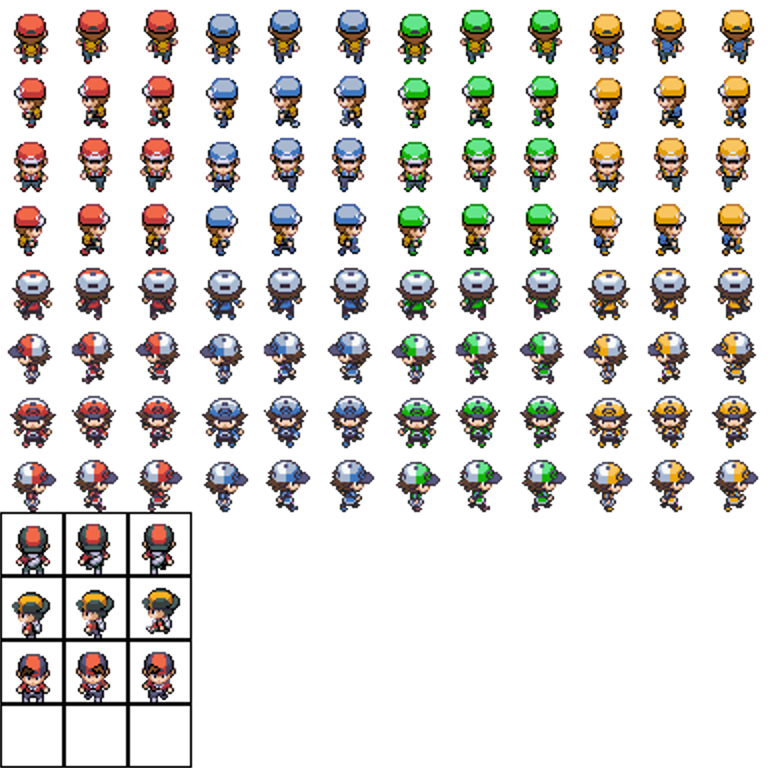
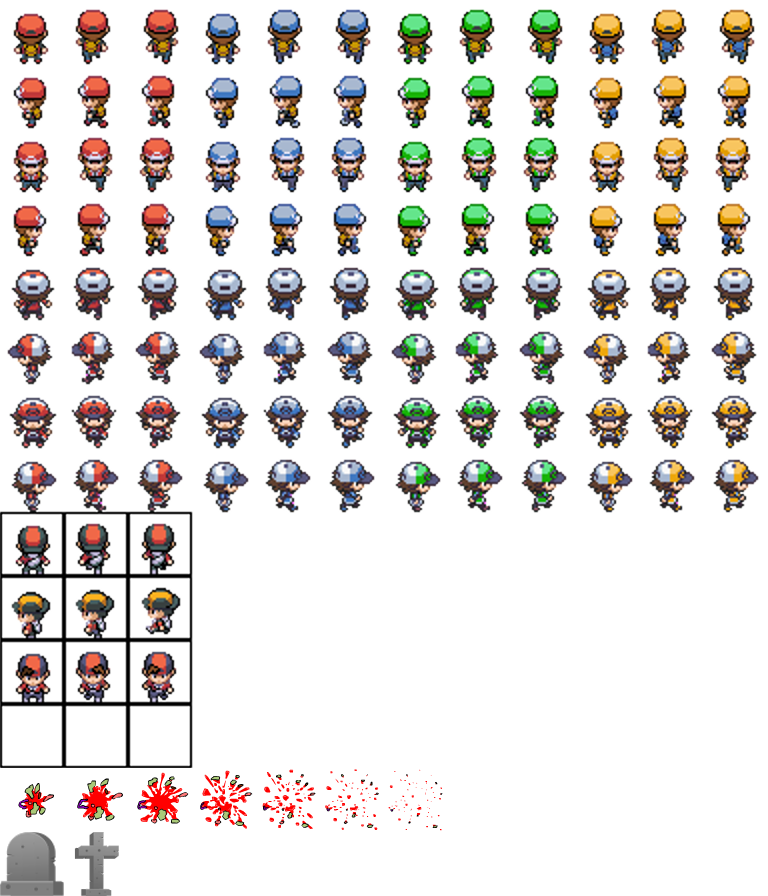
Add new animations

diff --git a/front/public/Game.js b/front/public/Game.js
@@ -159,22 +159,27 @@ socket.on("start", () => {
 });
 
 const createPlayer = data => {
-  return Crafty.e("2D, Canvas, team1, Controls, Collision, SpriteAnimation")
+  return Crafty.e("2D, Canvas, team1, Mouse, SpriteAnimation")
     .attr({
       x: data.pos.x * tileMapSize,
       y: data.pos.y * tileMapSize,
-      w: tileMapSize,
-      h: tileMapSize
     })
     .reel("2", 100, [[0, 3], [1, 3], [2, 3]])
     .reel("4", 100, [[0, 1], [1, 1], [2, 1]])
     .reel("3", 100, [[0, 2], [1, 2], [2, 2]])
     .reel("1", 100, [[0, 0], [1, 0], [2, 0]])
-    .bind("Update", function(data) {
-      this.animate(data.orientation.toString());
+    .reel("dead", 1000, [[0, 12], [1, 12], [2, 12], [3, 12],
+        [4, 12], [5, 12], [6, 12], [1, 13]])
+  .bind("Update", function(data) {
+      this.animate(data.orientation.toString(), 1);
       this.x = data.pos.x * tileMapSize;
       this.y = data.pos.y * tileMapSize;
-    });
+    })
+      .bind("Click", function(data) {
+          displayItem(this.x, this.y);
+          this.animate("dead", 1)
+          this.sprite("tomb")
+      });
 };
 
 const parseClientsData = data => {
@@ -210,20 +215,29 @@ const parseHubData = data => {
       map[i][j].thystame = data.map[i][j].thystame;
       //TODO Count all item not only food
       if (map[i][j].food > 0 && !map[i][j].entity) {
-        map[i][j].entity = Crafty.e(`2D, Canvas, Mouse, item, ClickFocus`)
+        map[i][j].entity = Crafty.e(`2D, Canvas, Mouse, item, ClickFocus, SpriteAnimation`)
           .attr({
             x: i * tileMapSize,
             y: j * tileMapSize
           })
           .bind("Click", function(data) {
-            displayItem(this.x, this.y);
+              this.animate("item_break", 1)
+              displayItem(this.x, this.y);
           })
           .bind("Focus", function() {
             this.sprite("itemHover");
           })
           .bind("Blur", function() {
             this.sprite(`item`);
-          });
+          })
+            .reel("item_break", 1000, [
+                [0, 0], [1, 0], [2, 0], [3, 0], [4, 0], [5, 0], [6, 0], [7, 0],
+                [8, 0], [9, 0], [10, 0], [11, 0], [12, 0], [13, 0], [14, 0], [15, 0],
+                [16, 0], [17, 0], [18, 0], [19, 0], [20, 0], [21, 0], [22, 0], [23, 0],
+                [24, 0], [25, 0], [26, 0], [27, 0], [28, 0], [29, 0], [30, 0], [31, 0],
+                [32, 0], [33, 0], [34, 0], [35, 0], [36, 0], [37, 0], [38, 0], [39, 0],
+                [40, 0], [41, 0], [42, 0], [43, 0], [44, 0], [45, 0], [46, 0], [47, 0], [48, 0]
+            ]);
       } else if (map[i][j].food <= 0 && map[i][j].entity) {
         map[i][j].entity.destroy();
       }
@@ -331,40 +345,44 @@ const startGame = () => {
     window.innerHeight * 0.75,
     document.getElementById("game")
   );
+  initSprites();
   //Add audio for Gameplay
   //Crafty.audio.add("PokemonSounds", "/sounds/Bourvil.mp3");
   //Crafty.audio.play("PokemonSounds", 5, 1);
-
-  //turn the sprite map into usable components
-  Crafty.sprite(64, "/images/Player.png", {
-    team1: [0, 2],
-    team2: [3, 2]
-  });
-  Crafty.sprite(64, "/images/map.png", {
-    ground1: [0, 0],
-    ground2: [1, 0],
-    ground3: [2, 0],
-    ground4: [3, 0],
-    ground5: [4, 0],
-    ground6: [5, 0],
-    ground7: [6, 0],
-    ground8: [7, 0],
-    ground9: [8, 0],
-    wallY: [0, 1],
-    wallX: [1, 1],
-    wall_TL: [2, 1],
-    wall_TR: [3, 1],
-    wall_BR: [4, 1],
-    wall_BL: [5, 1],
-    hover: [6, 1]
-  });
-  Crafty.sprite(64, "/images/Object.png", {
-    item: [6, 20],
-    itemHover: [14, 26]
-  });
-  generateWorld();
+    generateWorld();
 };
 
+const initSprites = () => {
+    //turn the sprite map into usable components
+    Crafty.sprite(64, "/images/Player.png", {
+        team1: [0, 2],
+        team2: [3, 2],
+        blood: [0, 12],
+        tomb: [1, 13]
+    });
+    Crafty.sprite(64, "/images/map.png", {
+        ground1: [0, 0],
+        ground2: [1, 0],
+        ground3: [2, 0],
+        ground4: [3, 0],
+        ground5: [4, 0],
+        ground6: [5, 0],
+        ground7: [6, 0],
+        ground8: [7, 0],
+        ground9: [8, 0],
+        wallY: [0, 1],
+        wallX: [1, 1],
+        wall_TL: [2, 1],
+        wall_TR: [3, 1],
+        wall_BR: [4, 1],
+        wall_BL: [5, 1],
+        hover: [6, 1]
+    });
+    Crafty.sprite(64, "/images/item.png", {
+        item: [0, 0],
+        itemHover: [0, 1]
+    });
+}
 // Can zoom or dezoom with Up and Down, and move camera with arrow
 Crafty.bind('KeyDown', function(e) {
     if (e.key === Crafty.keys.LEFT_ARROW) 
